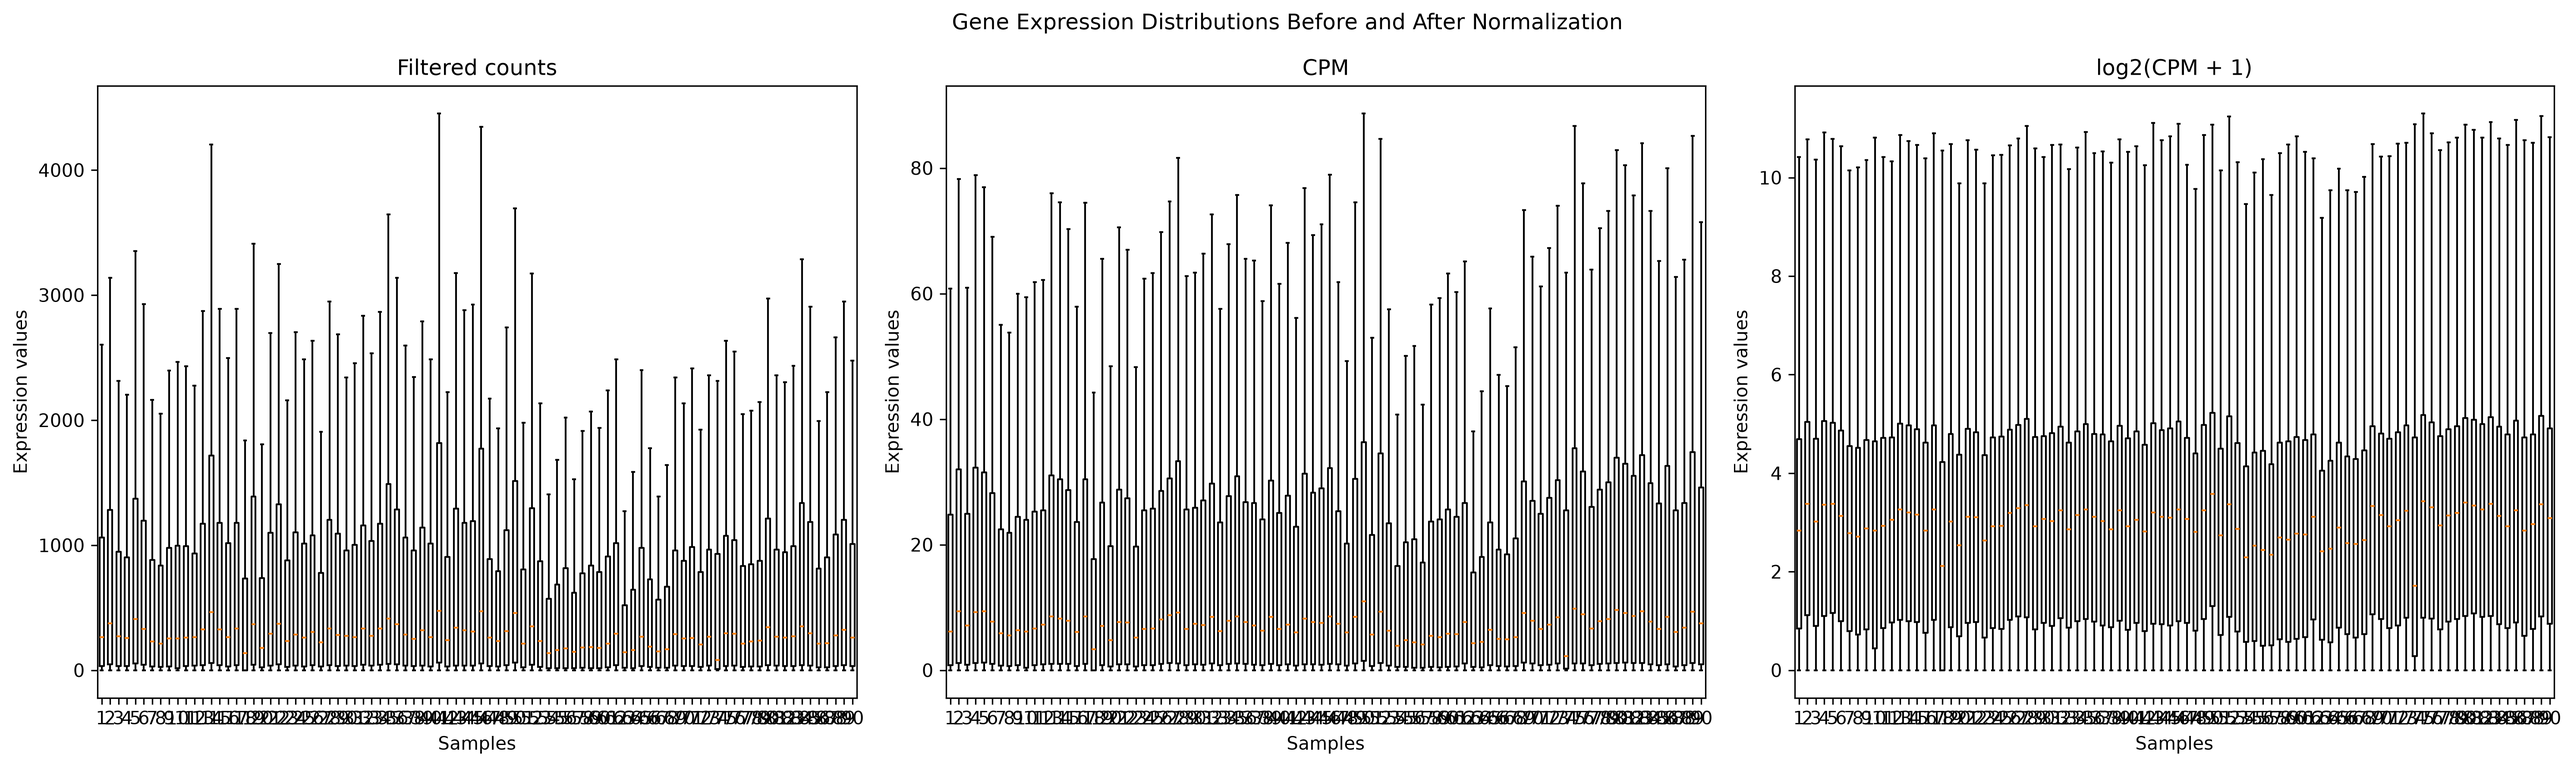
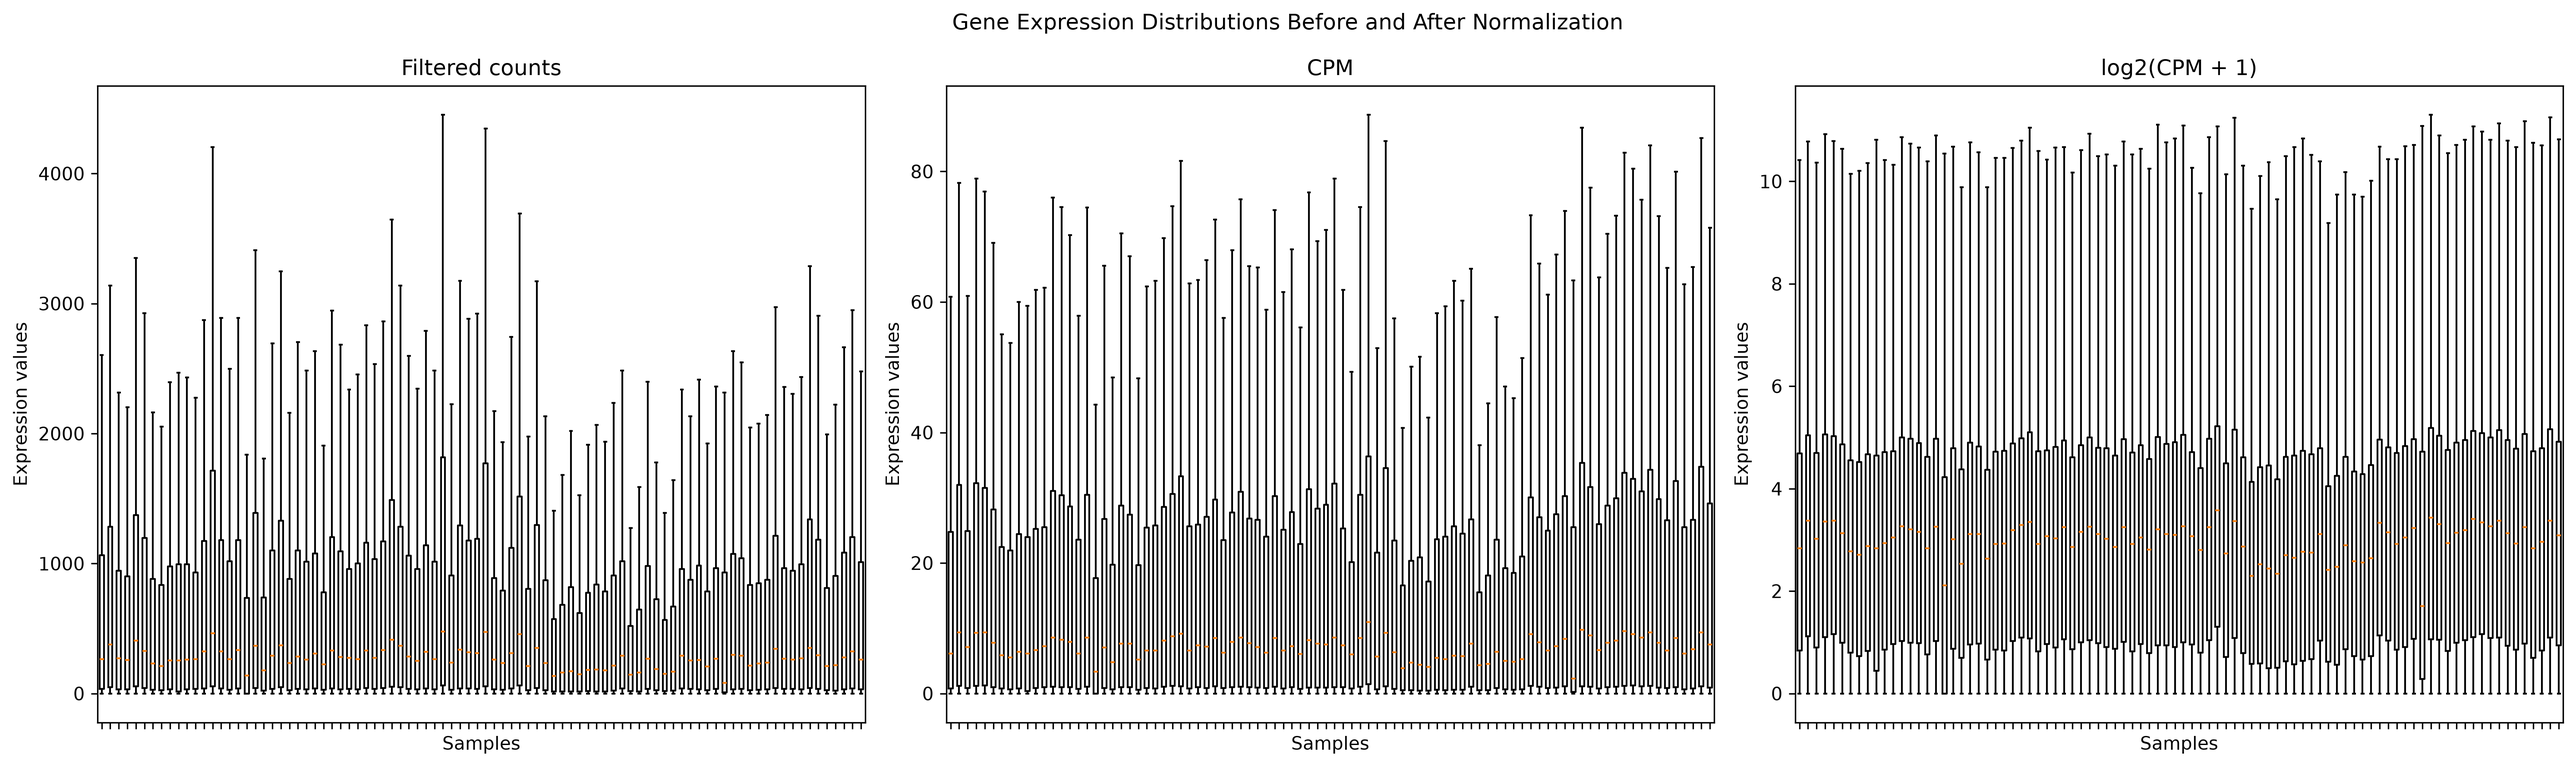
Add normalization results and visualization

diff --git a/src/visualization.py b/src/visualization.py
@@ -51,6 +51,7 @@ def plot_normalization_boxplots(counts, cpm, log2_cpm, output_path):
         ax.set_title(title)
         ax.set_xlabel("Samples")
         ax.set_ylabel("Expression values")
+        ax.tick_params(axis="x", labelbottom=False)
 
     fig.suptitle(
         "Gene Expression Distributions Before and After Normalization"
@@ -60,5 +61,5 @@ def plot_normalization_boxplots(counts, cpm, log2_cpm, output_path):
     fig.savefig(output_path, dpi=300, bbox_inches="tight")
     plt.close(fig)
 
-    
+
 
